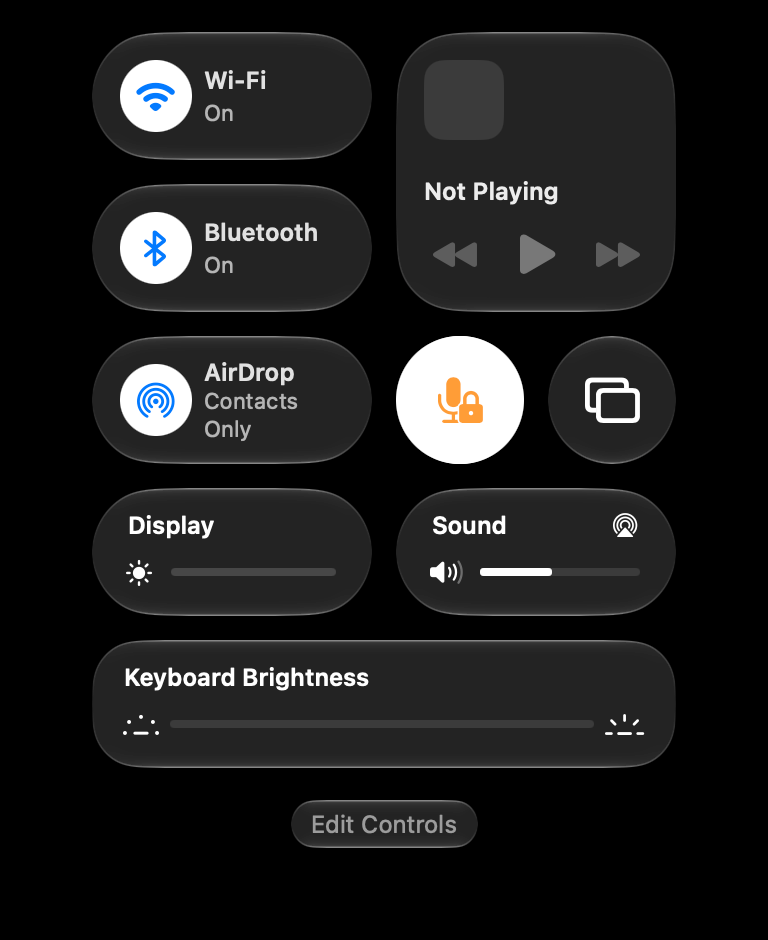
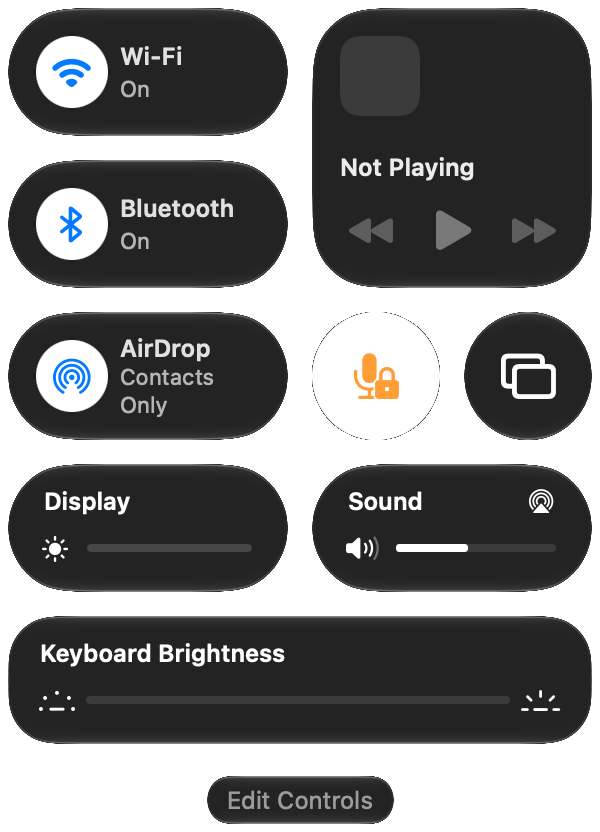
README: transparent Control Center screenshot

diff --git a/README.md b/README.md
@@ -67,7 +67,7 @@ or the menu bar. It shows whether the lock is on and switches it with one tap.
 The control talks to the running app, so keep MicLock running (turn on **Open at login**).
 
 <p align="center">
-  <img src="docs/control-center.png" width="384" alt="MicLock toggle in Control Center">
+  <img src="docs/control-center.png" width="300" alt="MicLock toggle in Control Center">
 </p>
 
 ## 🛠 Build from source
